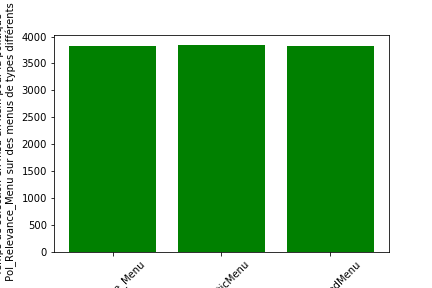
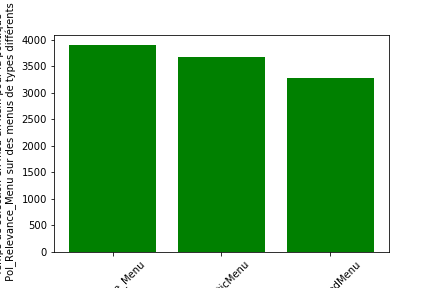
v6

diff --git a/src/main.py b/src/main.py
@@ -14,8 +14,7 @@ from Ihm.env import *
 import sys
 import matplotlib.pyplot as plt
 import pylab as pl
-
-
+import matplotlib.pyplot as plt
 
 frame = Frame()
 if not frame.listRel:
@@ -47,7 +46,7 @@ gf=gestFile(lfile)
 for elem in l:
     p = compare(pol,gf,elem)
     tmp=0
-    nb=10000
+    nb=10
     for i in range(nb):
         print("ITERATION ",i)
         tmp += p.getTimeToFindReward()
@@ -64,5 +63,5 @@ pl.bar(x,y,color='g')
 s="Temps de sélection en msd'un item pour la politique \n %s sur des menus de types différents" %frame.Type[:-4]
 plt.ylabel("Temps de sélection en msd'un item pour la politique \n %s sur des menus de types différents" %frame.Type[:-4])
 plt.savefig('testplot.png')
-Image.open('testplot.png').save('testplot.jpg','JPEG')
+plt.show()
 
